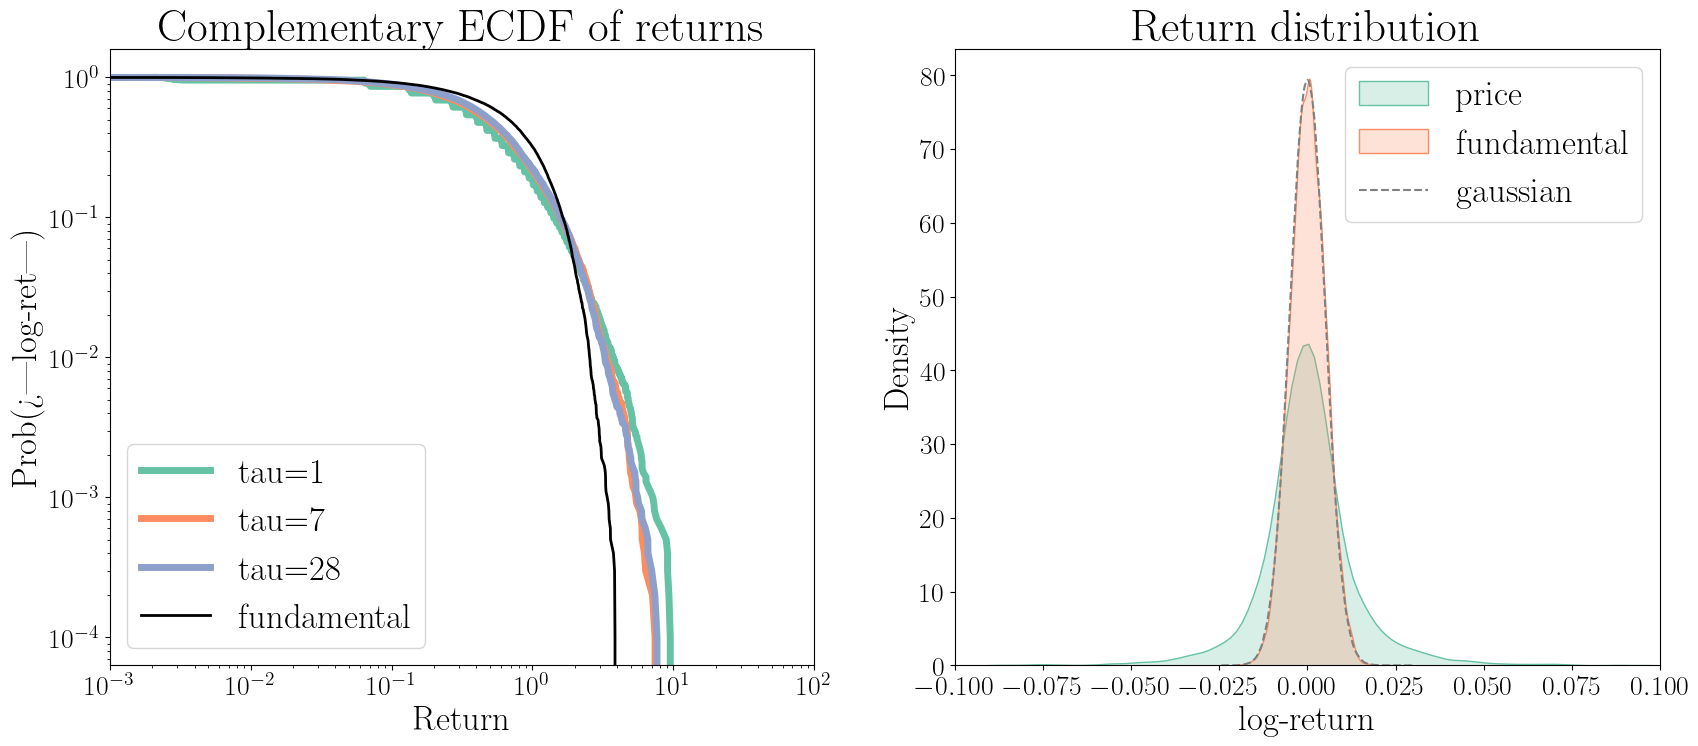
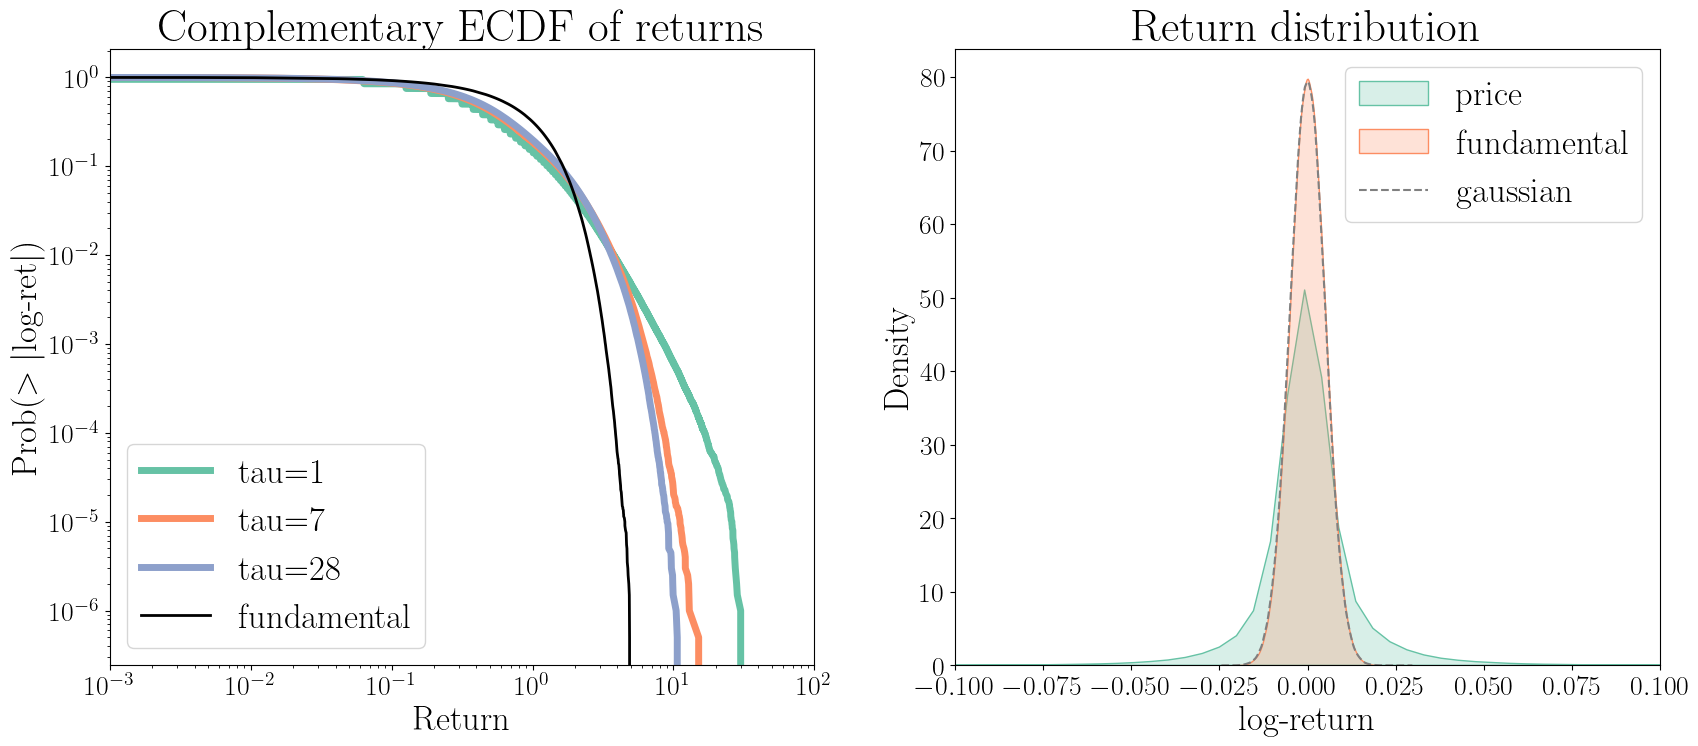
minor corrections

diff --git a/doPlots.py b/doPlots.py
@@ -36,7 +36,6 @@ plots = [
     plotTS(history, args),
     plotLogReturns(history, args),
     plotPopulation(history, args),
-    plotECDF(history, args),
     animateXZ(history, args)
 ]
 
@@ -44,7 +43,7 @@ for i in range(len(plots)):
     plots[i]
 
 
-# Load the data from simul1
+# Load the data from simul1 (longer)
 with open("./files/simul1.pkl", "rb") as f:
     history = pickle.load(f)
 totalT = len(history["prices"])
@@ -53,7 +52,8 @@ args = state, params, time
 
 # Plot for simul1
 plots = [
-    plotDFA(history, args)
+    plotECDF(history, args),
+    plotDFA(history, args),
 ]
 
 for i in range(len(plots)):

diff --git a/utils.py b/utils.py
@@ -215,7 +215,7 @@ def plotECDF(history, args):
                 markersize=1, linestyle="-", linewidth=2)
     ax[0].legend(loc="lower left", fontsize=fontsize)
     ax[0].set_xlabel("Return", fontsize=fontsize)
-    ax[0].set_ylabel("Prob(>|log-ret|)", fontsize=fontsize)
+    ax[0].set_ylabel(r"Prob($>|$log-ret$|$)", fontsize=fontsize)
     ax[0].tick_params(axis='both', which='major', labelsize=fontsize*0.8)
     ax[0].tick_params(axis='both', which='minor', labelsize=fontsize*0.8)
     ax[0].set_xlim(1e-3, 100)
